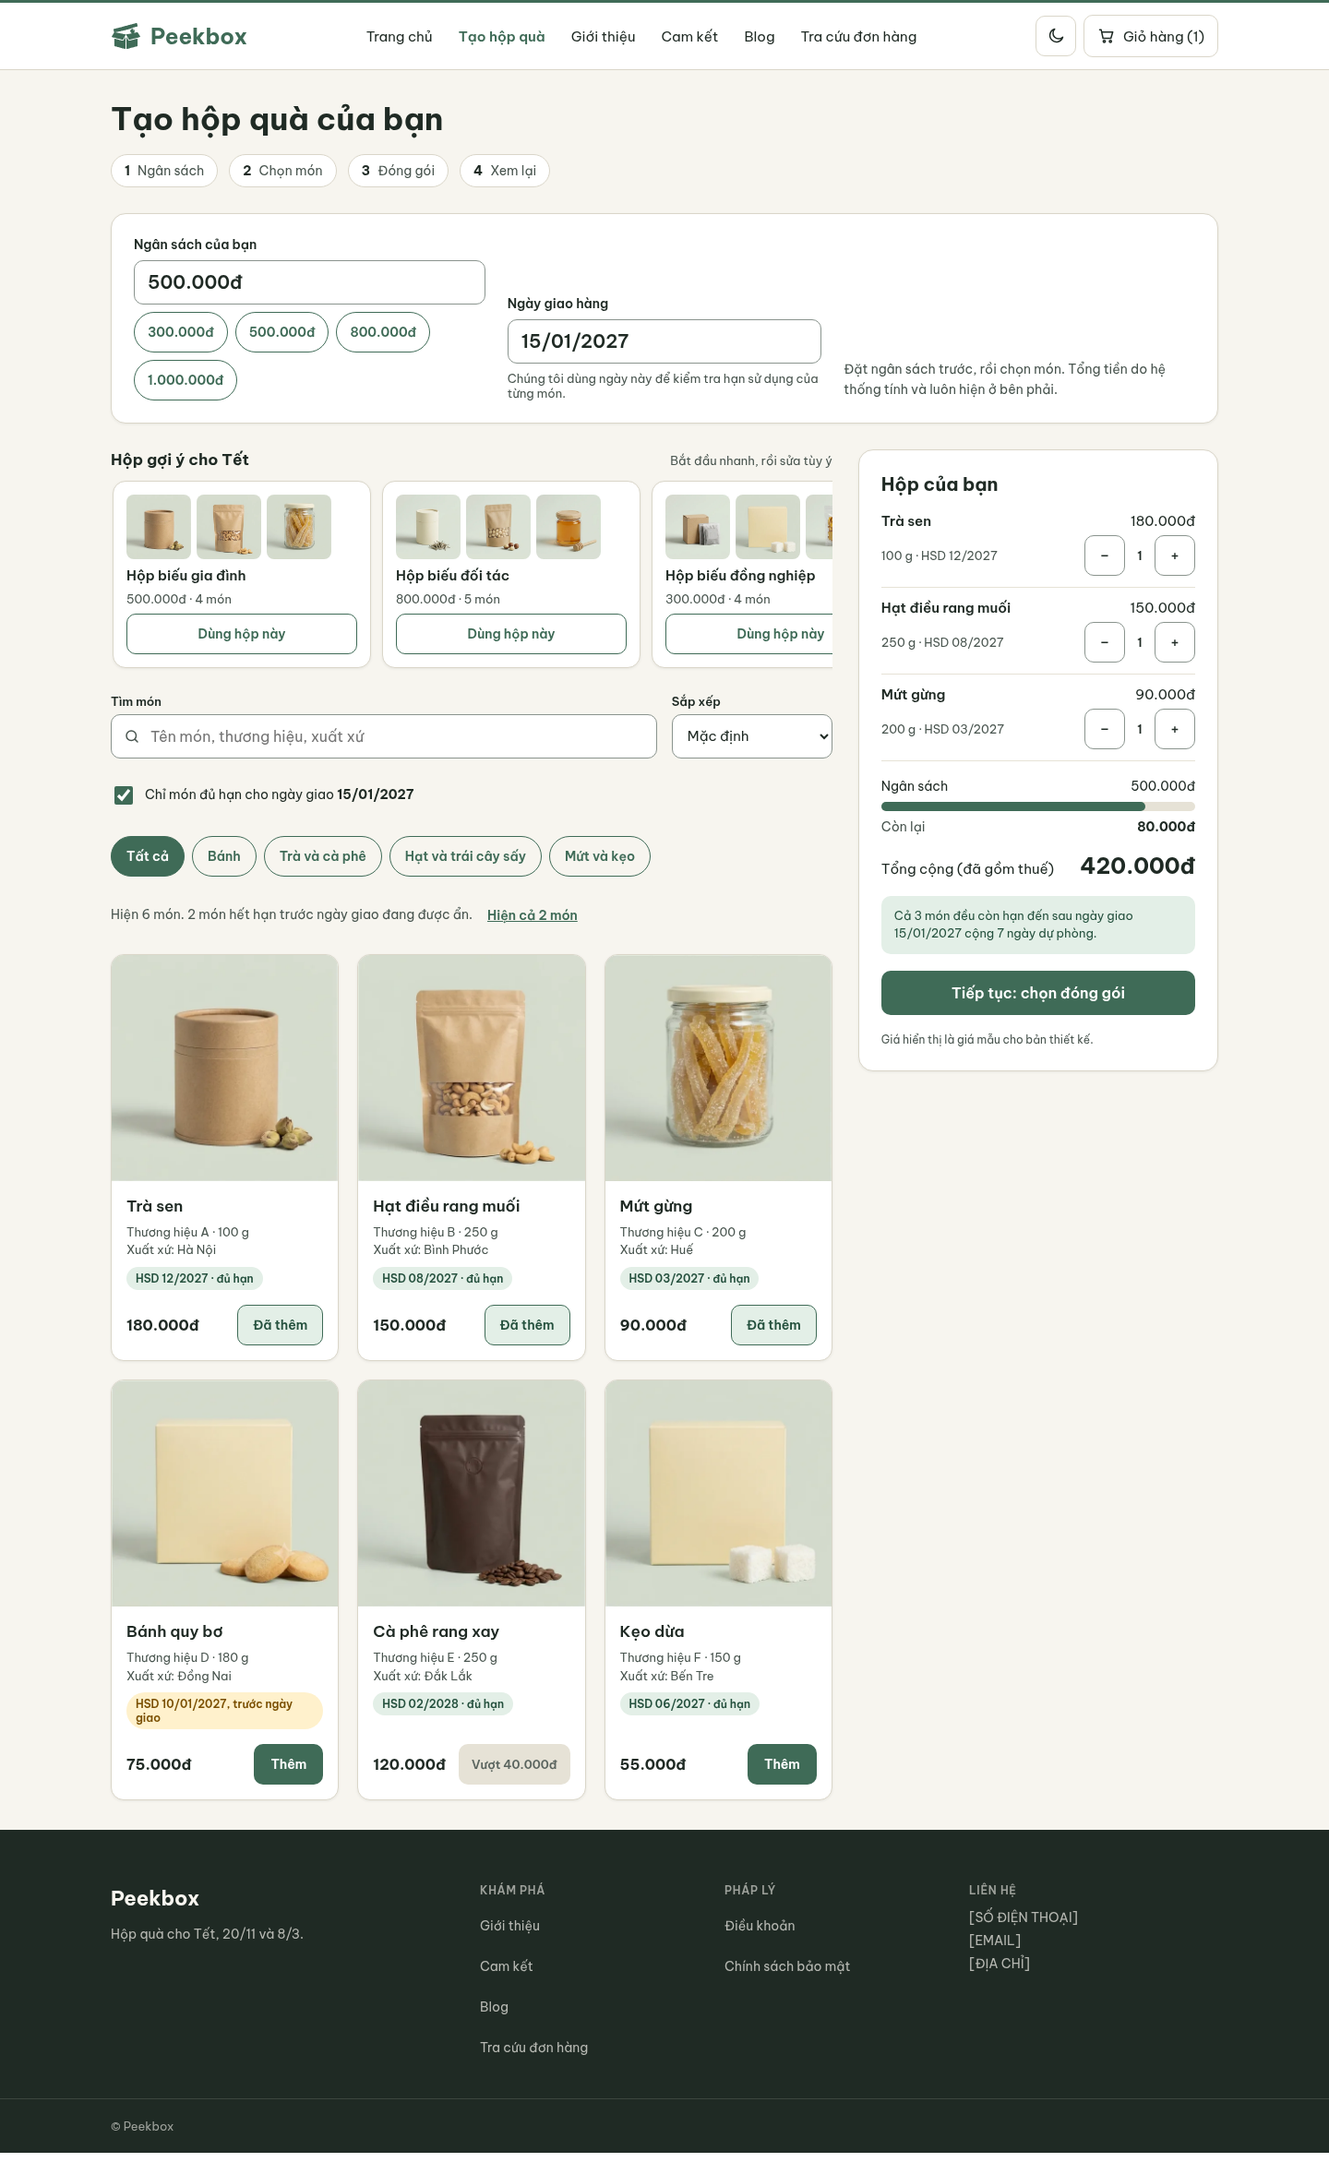
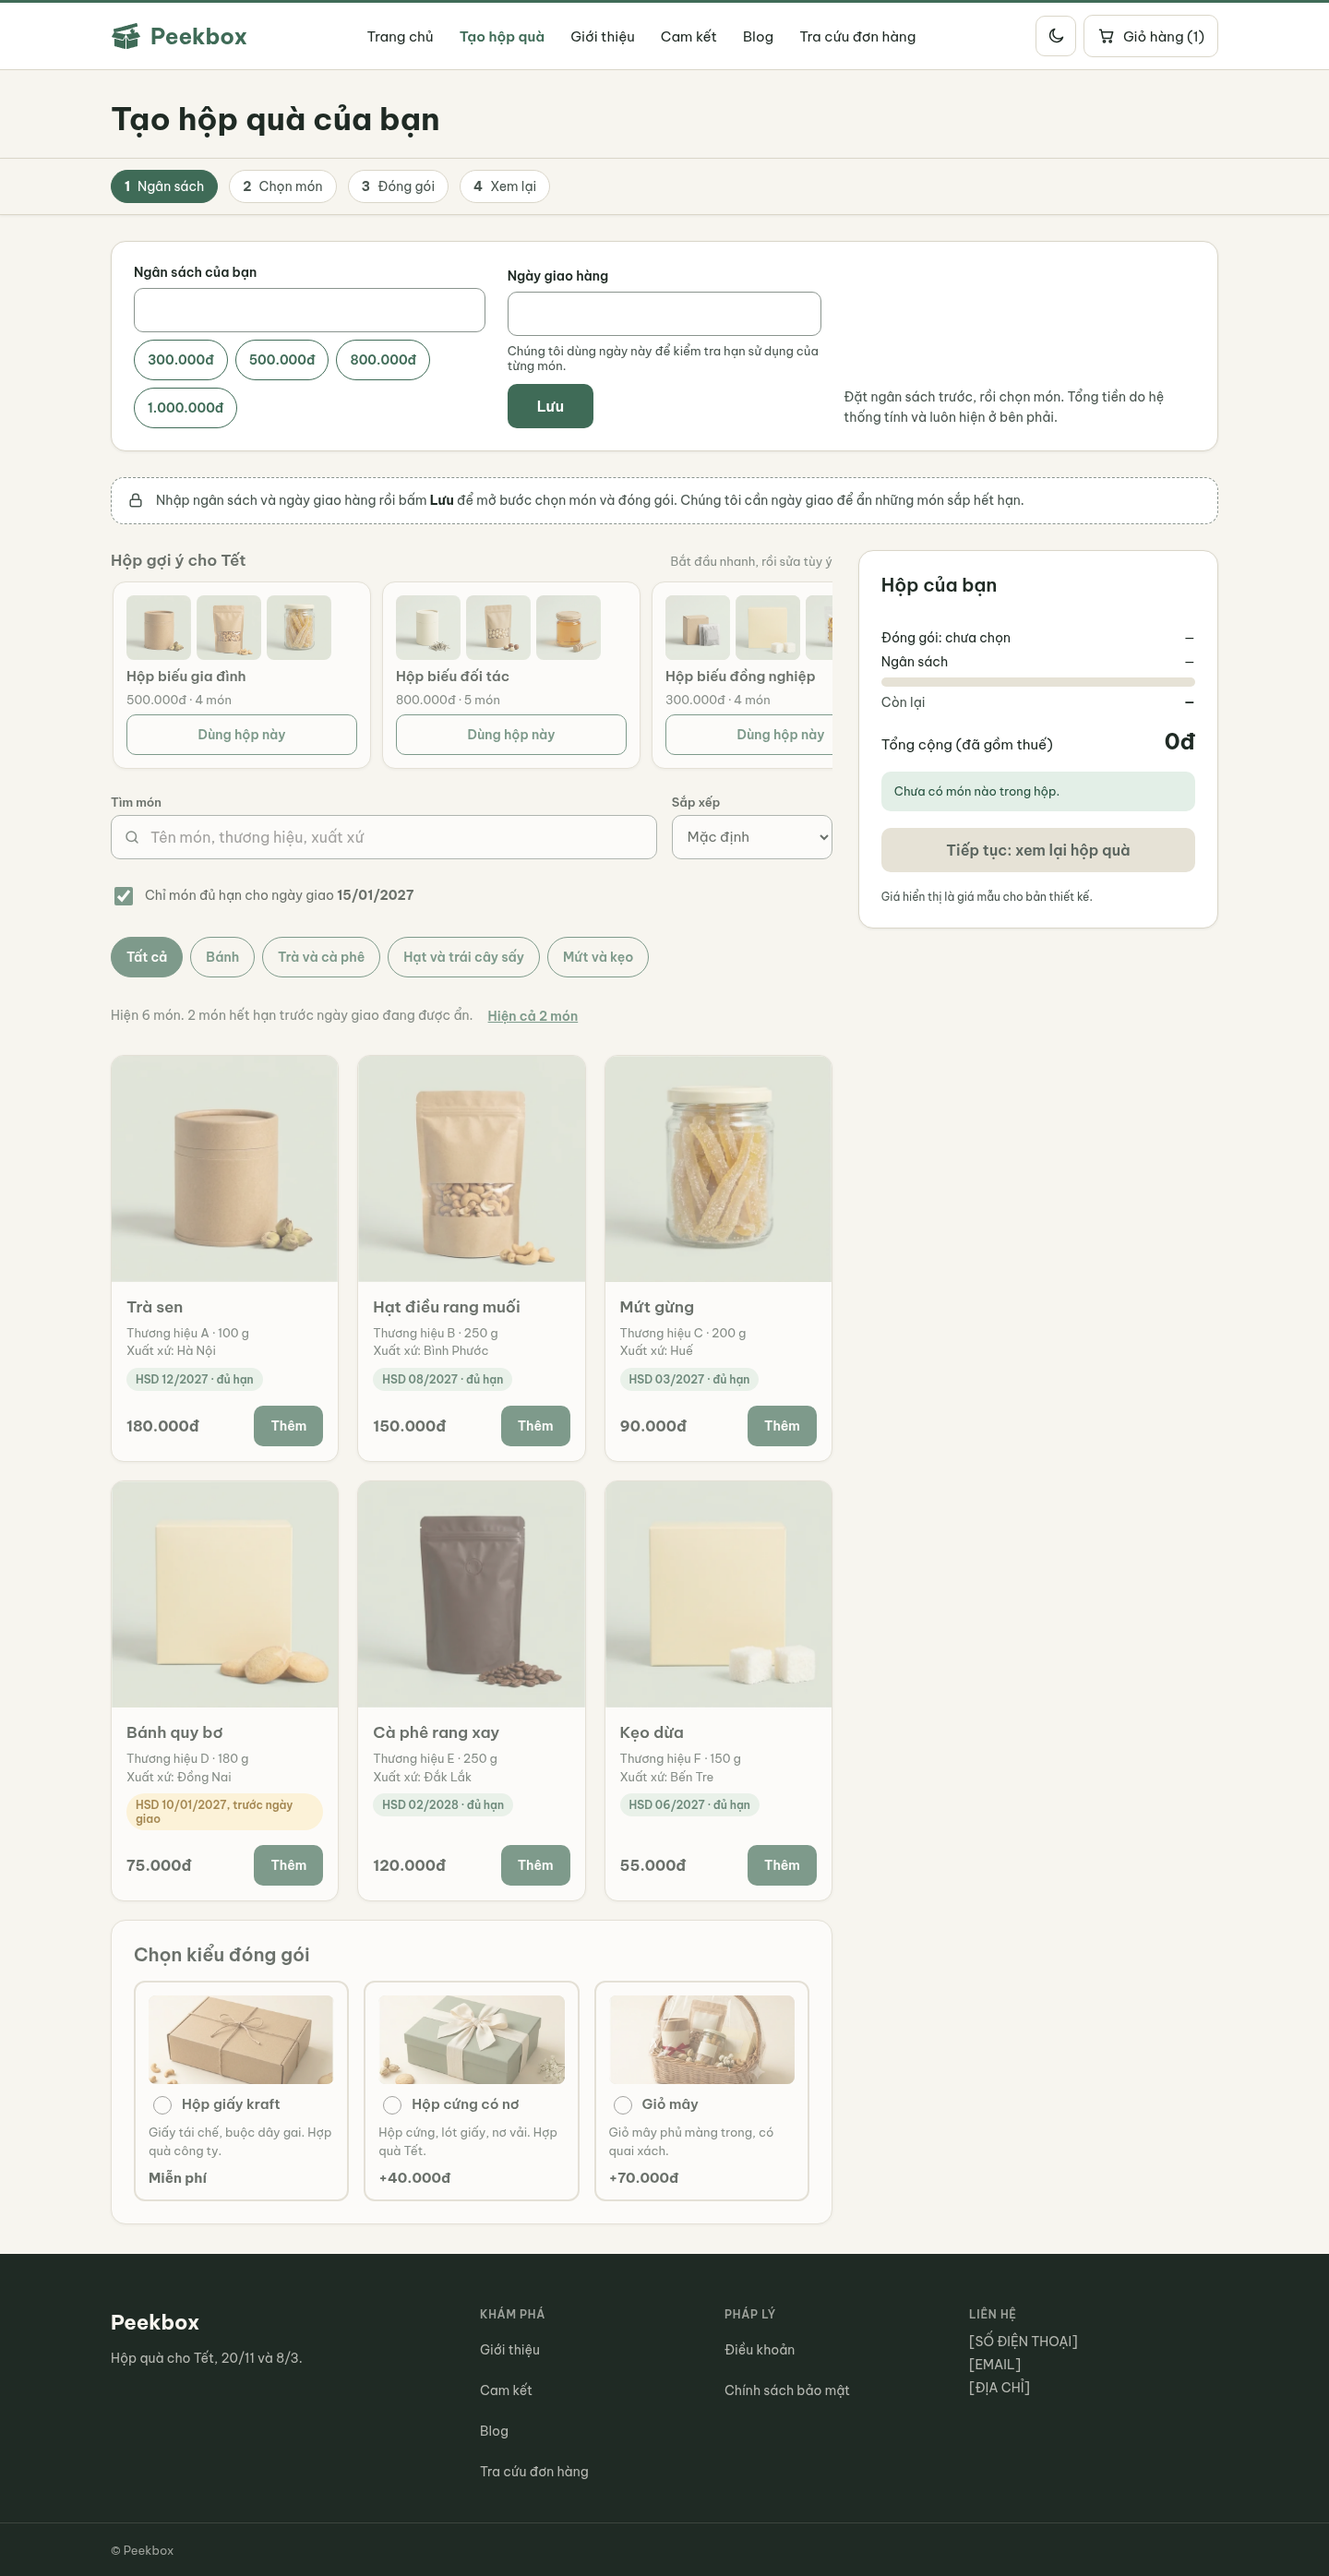
Mockups: builder steps 1 to 3 on one page, step 4 as its own review page
- 02-builder (light and dark): steps 1 to 3 on one page, step 1 current,
  steps 2 and 3 locked; sticky progress pills; "Lưu" on step 1
- states 26 and 27: the builder after step 1 is saved (items open) and
  after items are chosen (packaging open)
- 04-review (light and dark): step 4 on a separate page
- state 29: the phone review page with the Tổng kết sheet open
- state 30: the review page when an item expires before the delivery date
  (the unhappy path the old 04-packaging-and-review image showed)
- removes 04-packaging-and-review (packaging moved to the builder)
- README lists the new files

Images are screenshots of pages built from the design source with the
colours, sizes and fonts in tokens.css, including the dark palette from #45.

diff --git a/design/README.md b/design/README.md
@@ -11,9 +11,9 @@ The live, editable design is on the Claude Design canvas: https://claude.ai/arti
 
 | Folder | What |
 |---|---|
-| `mockups/customer/` | The 12 customer pages (Vietnamese, light), each as `.desktop.webp` and `.mobile.webp`: 01 home, 02 builder (with starter boxes), 03 item detail, 04 packaging and review, 05 cart, 06 checkout, 07 order confirmation, 08 blog list, 09 blog post, 10 about and commitments, 11 terms and privacy, 12 track an order |
+| `mockups/customer/` | The 12 customer pages (Vietnamese, light), each as `.desktop.webp` and `.mobile.webp`: 01 home, 02 builder (steps 1 to 3 on one page: budget and date, items, packaging; this image is the start of the page, step 1 current and steps 2 and 3 locked), 03 item detail, 04 review (step 4, a separate page), 05 cart, 06 checkout, 07 order confirmation, 08 blog list, 09 blog post, 10 about and commitments, 11 terms and privacy, 12 track an order |
 | `mockups/admin/` | The 11 admin screens, desktop and mobile: login, orders, items and stock, campaigns, settings, delivery cutoffs, coupons, reviews, stats, users, account |
-| `mockups/states/` | Pages that appear only after something happens, or small features, desktop and mobile: empty cart, checkout errors, ZaloPay payment failed, builder cards (chosen, sold out, expires before the delivery date, would exceed the budget) with a no-results box, 404, cart coupon error, an item sold out during checkout, search suggestions, added-to-hamper toast, share menu, floating contact and back-to-top buttons, loading skeleton, resume an unfinished hamper, track an order with no match (19), a cancelled order (20), the phone menu open (21), track an order after too many tries (22), the admin account menu on a phone (23), the item page with the Thông tin chi tiết tab open (24) and with Giao hàng và đổi trả open (25); admin: empty orders day, login locked, empty items, coupons and reviews |
+| `mockups/states/` | Pages that appear only after something happens, or small features, desktop and mobile: empty cart, checkout errors, ZaloPay payment failed, builder cards (chosen, sold out, expires before the delivery date, would exceed the budget) with a no-results box, 404, cart coupon error, an item sold out during checkout, search suggestions, added-to-hamper toast, share menu, floating contact and back-to-top buttons, loading skeleton, resume an unfinished hamper, track an order with no match (19), a cancelled order (20), the phone menu open (21), track an order after too many tries (22), the admin account menu on a phone (23), the item page with the Thông tin chi tiết tab open (24) and with Giao hàng và đổi trả open (25), the builder with the budget and date saved and the items open (26), the builder with items chosen and the packaging open (27), the phone review page with the Tổng kết sheet open (29, phone only), and the review page when an item expires before the delivery date: a red banner, the item marked, and the add-to-cart button disabled (30); admin: empty orders day, login locked, empty items, coupons and reviews |
 | `mockups/dark/` | Dark mode of all 12 customer pages and of the customer states (`states/`), desktop and mobile |
 | `mockups/foundations/` | The palette and type board, the interaction states board (hover, focus, pressed, disabled; light and dark), and the logo as SVG (also in `public/images/logo/`). The logo is a traced vector, so a designer may want to redraw it with sharper corners. |
 | `source/` | The design source files (`.dc.html`) and `canvas.json` (the board layout). They only render inside the Claude Design canvas; the photos in them point to files stored in that canvas. Keep them as a backup, or to publish again. They are not a usable frontend (see below). |
